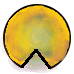
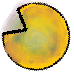
"Fixed" energy (it spins now :))

diff --git a/GregTheSpireCode/Character/GregTheSpire.cs b/GregTheSpireCode/Character/GregTheSpire.cs
@@ -66,14 +66,15 @@ public class GregTheSpire : PlaceholderCharacterModel
 
     public override string CustomIconTexturePath => "character_icon_greg.png".GregPath();
     public override string CustomIconOutlineTexturePath => "character_icon_greg_outline.png".GregPath();
-    public override string CustomCharacterSelectIconPath => "char_select_char_name.png".CharacterUiPath();
-    public override string CustomCharacterSelectLockedIconPath => "char_select_char_name_locked.png".CharacterUiPath();
+    public override string CustomCharacterSelectIconPath => "char_select_greg.png".CharacterUiPath();
+    //public override string CustomCharacterSelectLockedIconPath => "char_select_char_name_locked.png".CharacterUiPath();
     public override string CustomMapMarkerPath => "map_marker_greg.png".GregPath();
     public override string CustomArmPointingTexturePath => "multiplayer_hand_greg_point.png".GregPath();
     public override string CustomArmRockTexturePath => "multiplayer_hand_greg_rock.png".GregPath();
     public override string CustomArmPaperTexturePath => "multiplayer_hand_greg_paper.png".GregPath();
     public override string CustomArmScissorsTexturePath => "multiplayer_hand_greg_scissors.png".GregPath();
-    
+    public override string CustomEnergyCounterPath => "res://GregTheSpire/scenes/energy_counter.tscn";
+
     //public override string CustomIconPath => "res://GregTheSpire/scenes/greg_icon.tscn"; needs to be made
     //public override string CustomCharacterSelectIconPath => "char_select_regent.png".GregPath();
 }

diff --git a/GregTheSpireCode/Character/GregTheSpireCardPool.cs b/GregTheSpireCode/Character/GregTheSpireCardPool.cs
@@ -8,8 +8,8 @@ public class GregTheSpireCardPool : CustomCardPoolModel
 {
     public override string Title => GregTheSpire.CharacterId; //This is not a display name.
 
-    public override string BigEnergyIconPath => "charui/big_energy.png".ImagePath();
-    public override string TextEnergyIconPath => "charui/text_energy.png".ImagePath();
+    public override string BigEnergyIconPath => "charui/greg_energy.png".ImagePath();
+    public override string TextEnergyIconPath => "charui/small_greg_energy.png".ImagePath();
 
 
     /* These HSV values will determine the color of your card back.

diff --git a/GregTheSpireCode/Character/GregTheSpirePotionPool.cs b/GregTheSpireCode/Character/GregTheSpirePotionPool.cs
@@ -9,6 +9,6 @@ public class GregTheSpirePotionPool : CustomPotionPoolModel
     public override Color LabOutlineColor => GregTheSpire.Color;
 
 
-    public override string BigEnergyIconPath => "charui/big_energy.png".ImagePath();
-    public override string TextEnergyIconPath => "charui/text_energy.png".ImagePath();
+    public override string BigEnergyIconPath => "charui/greg_energy.png".ImagePath();
+    public override string TextEnergyIconPath => "charui/small_greg_energy.png".ImagePath();
 }

diff --git a/GregTheSpireCode/Character/GregTheSpireRelicPool.cs b/GregTheSpireCode/Character/GregTheSpireRelicPool.cs
@@ -8,6 +8,6 @@ public class GregTheSpireRelicPool : CustomRelicPoolModel
 {
     public override Color LabOutlineColor => GregTheSpire.Color;
 
-    public override string BigEnergyIconPath => "charui/big_energy.png".ImagePath();
-    public override string TextEnergyIconPath => "charui/text_energy.png".ImagePath();
+    public override string BigEnergyIconPath => "charui/greg_energy.png".ImagePath();
+    public override string TextEnergyIconPath => "charui/small_greg_energy.png".ImagePath();
 }
